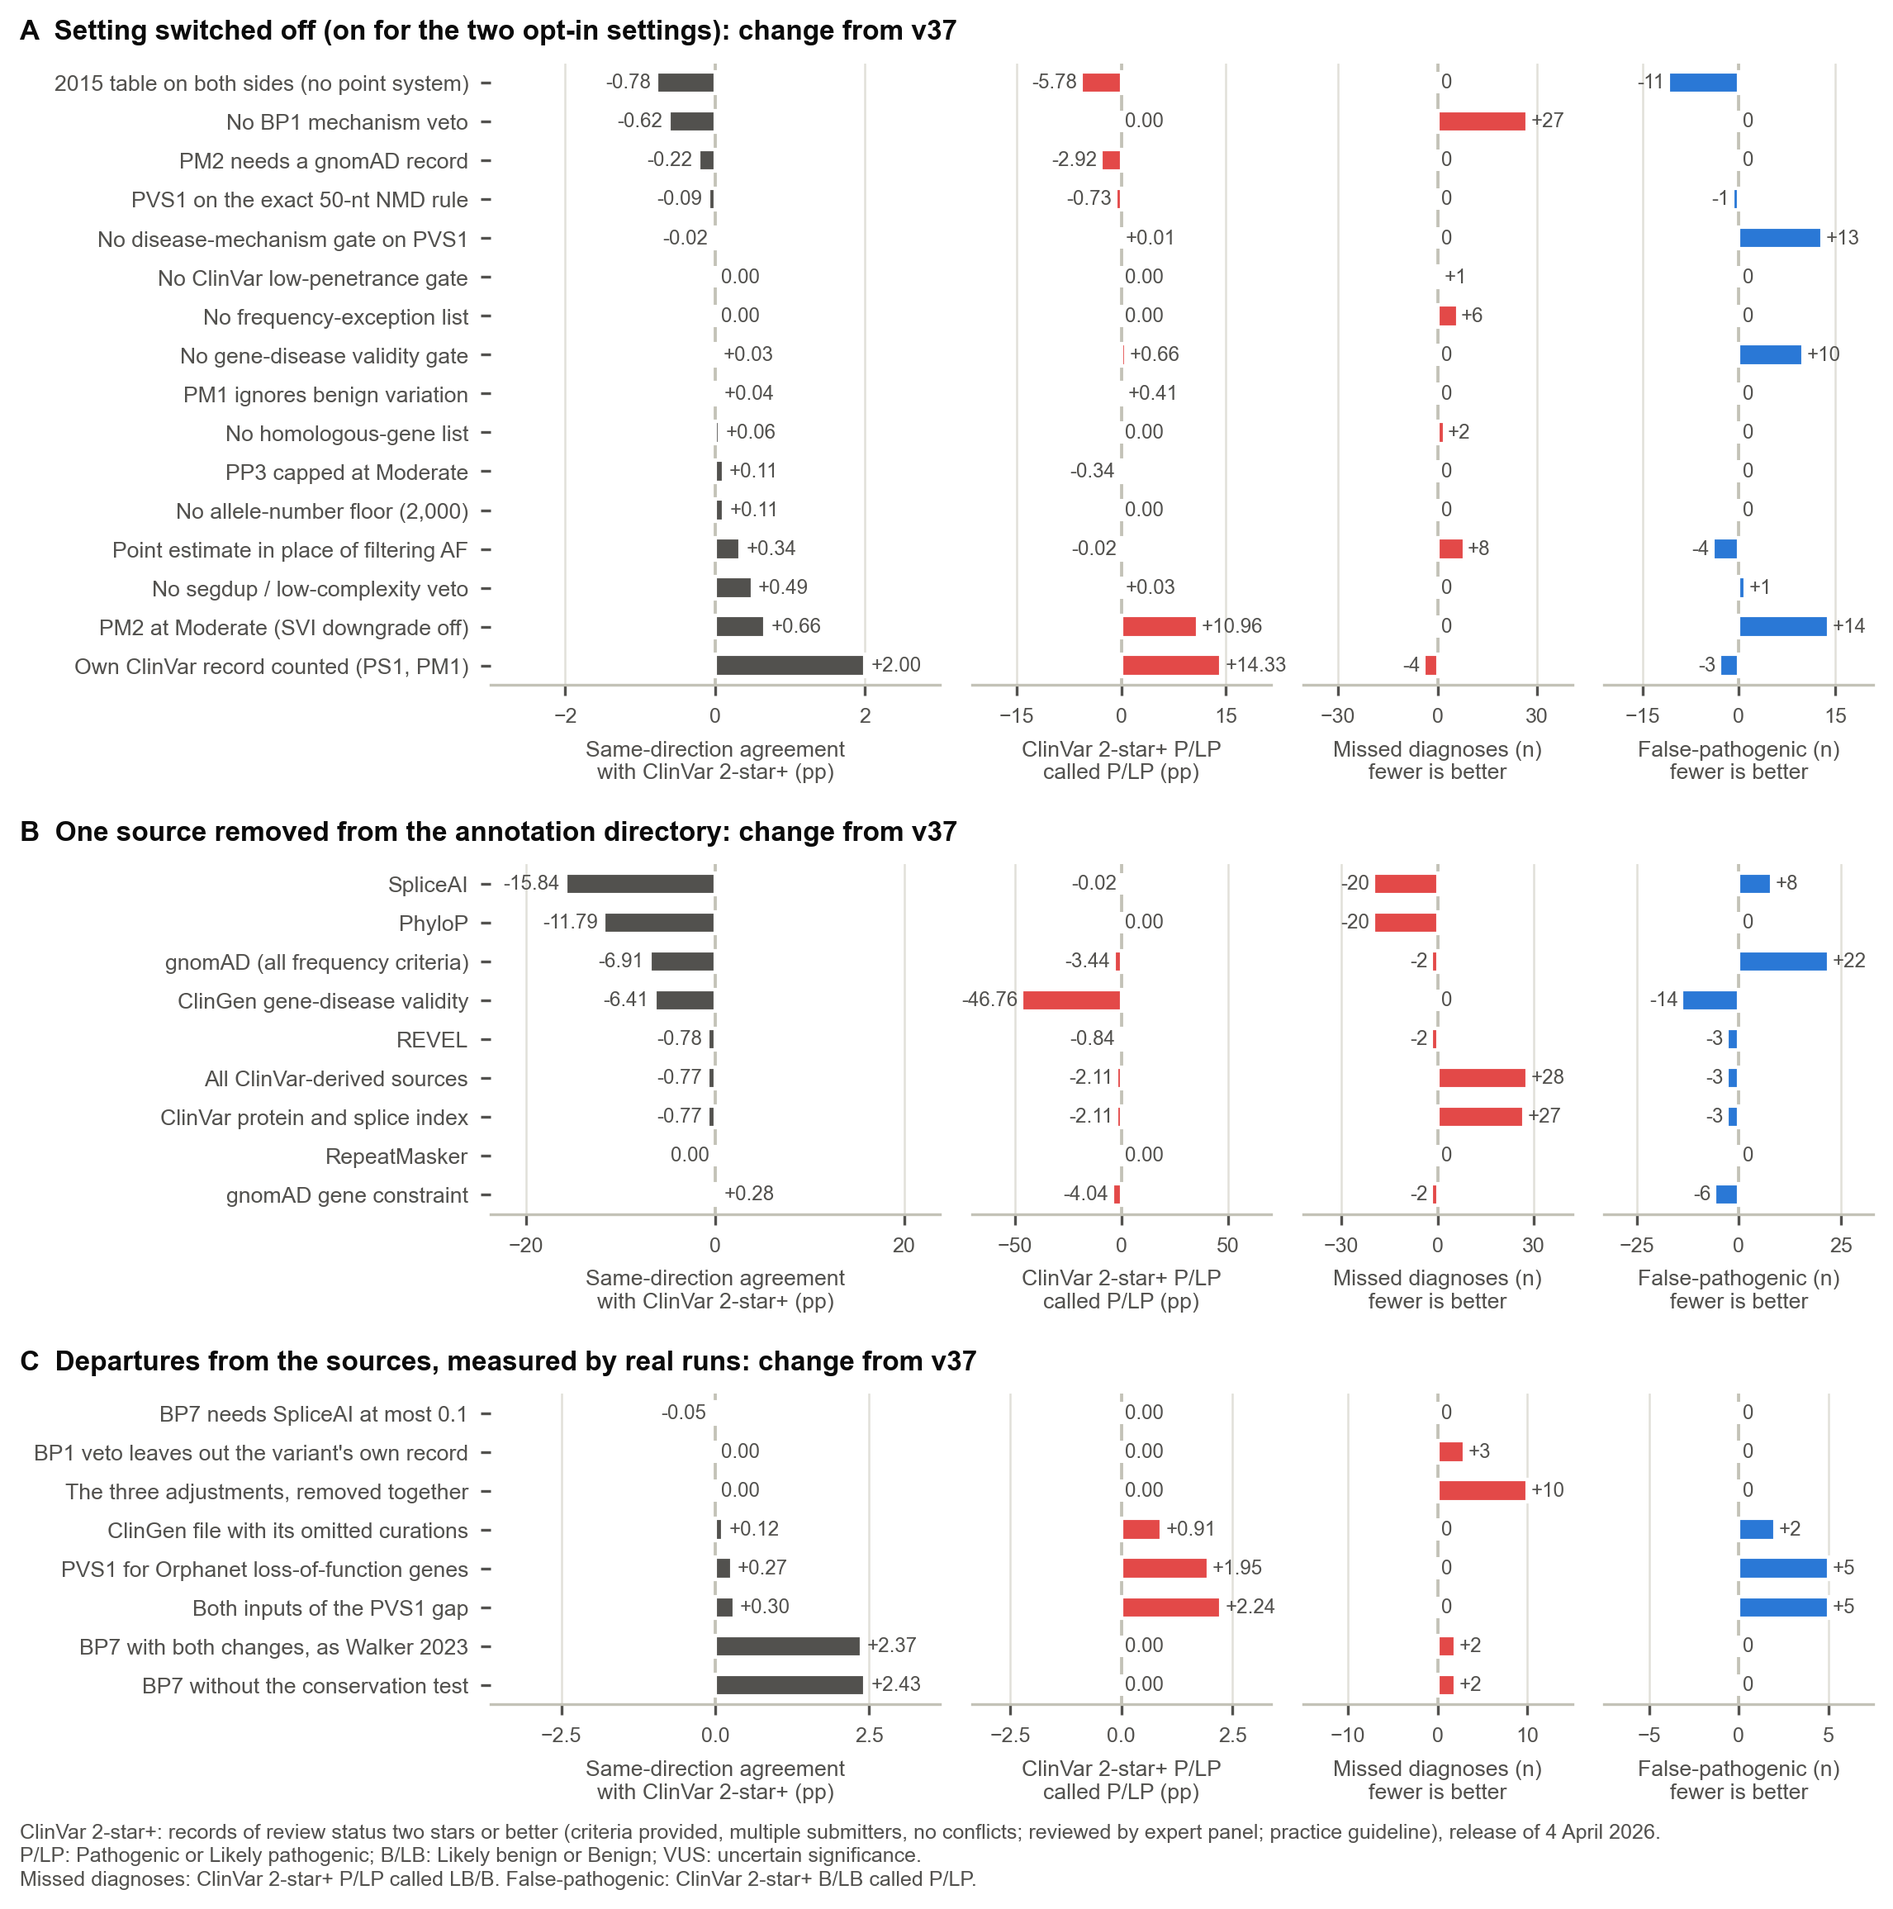
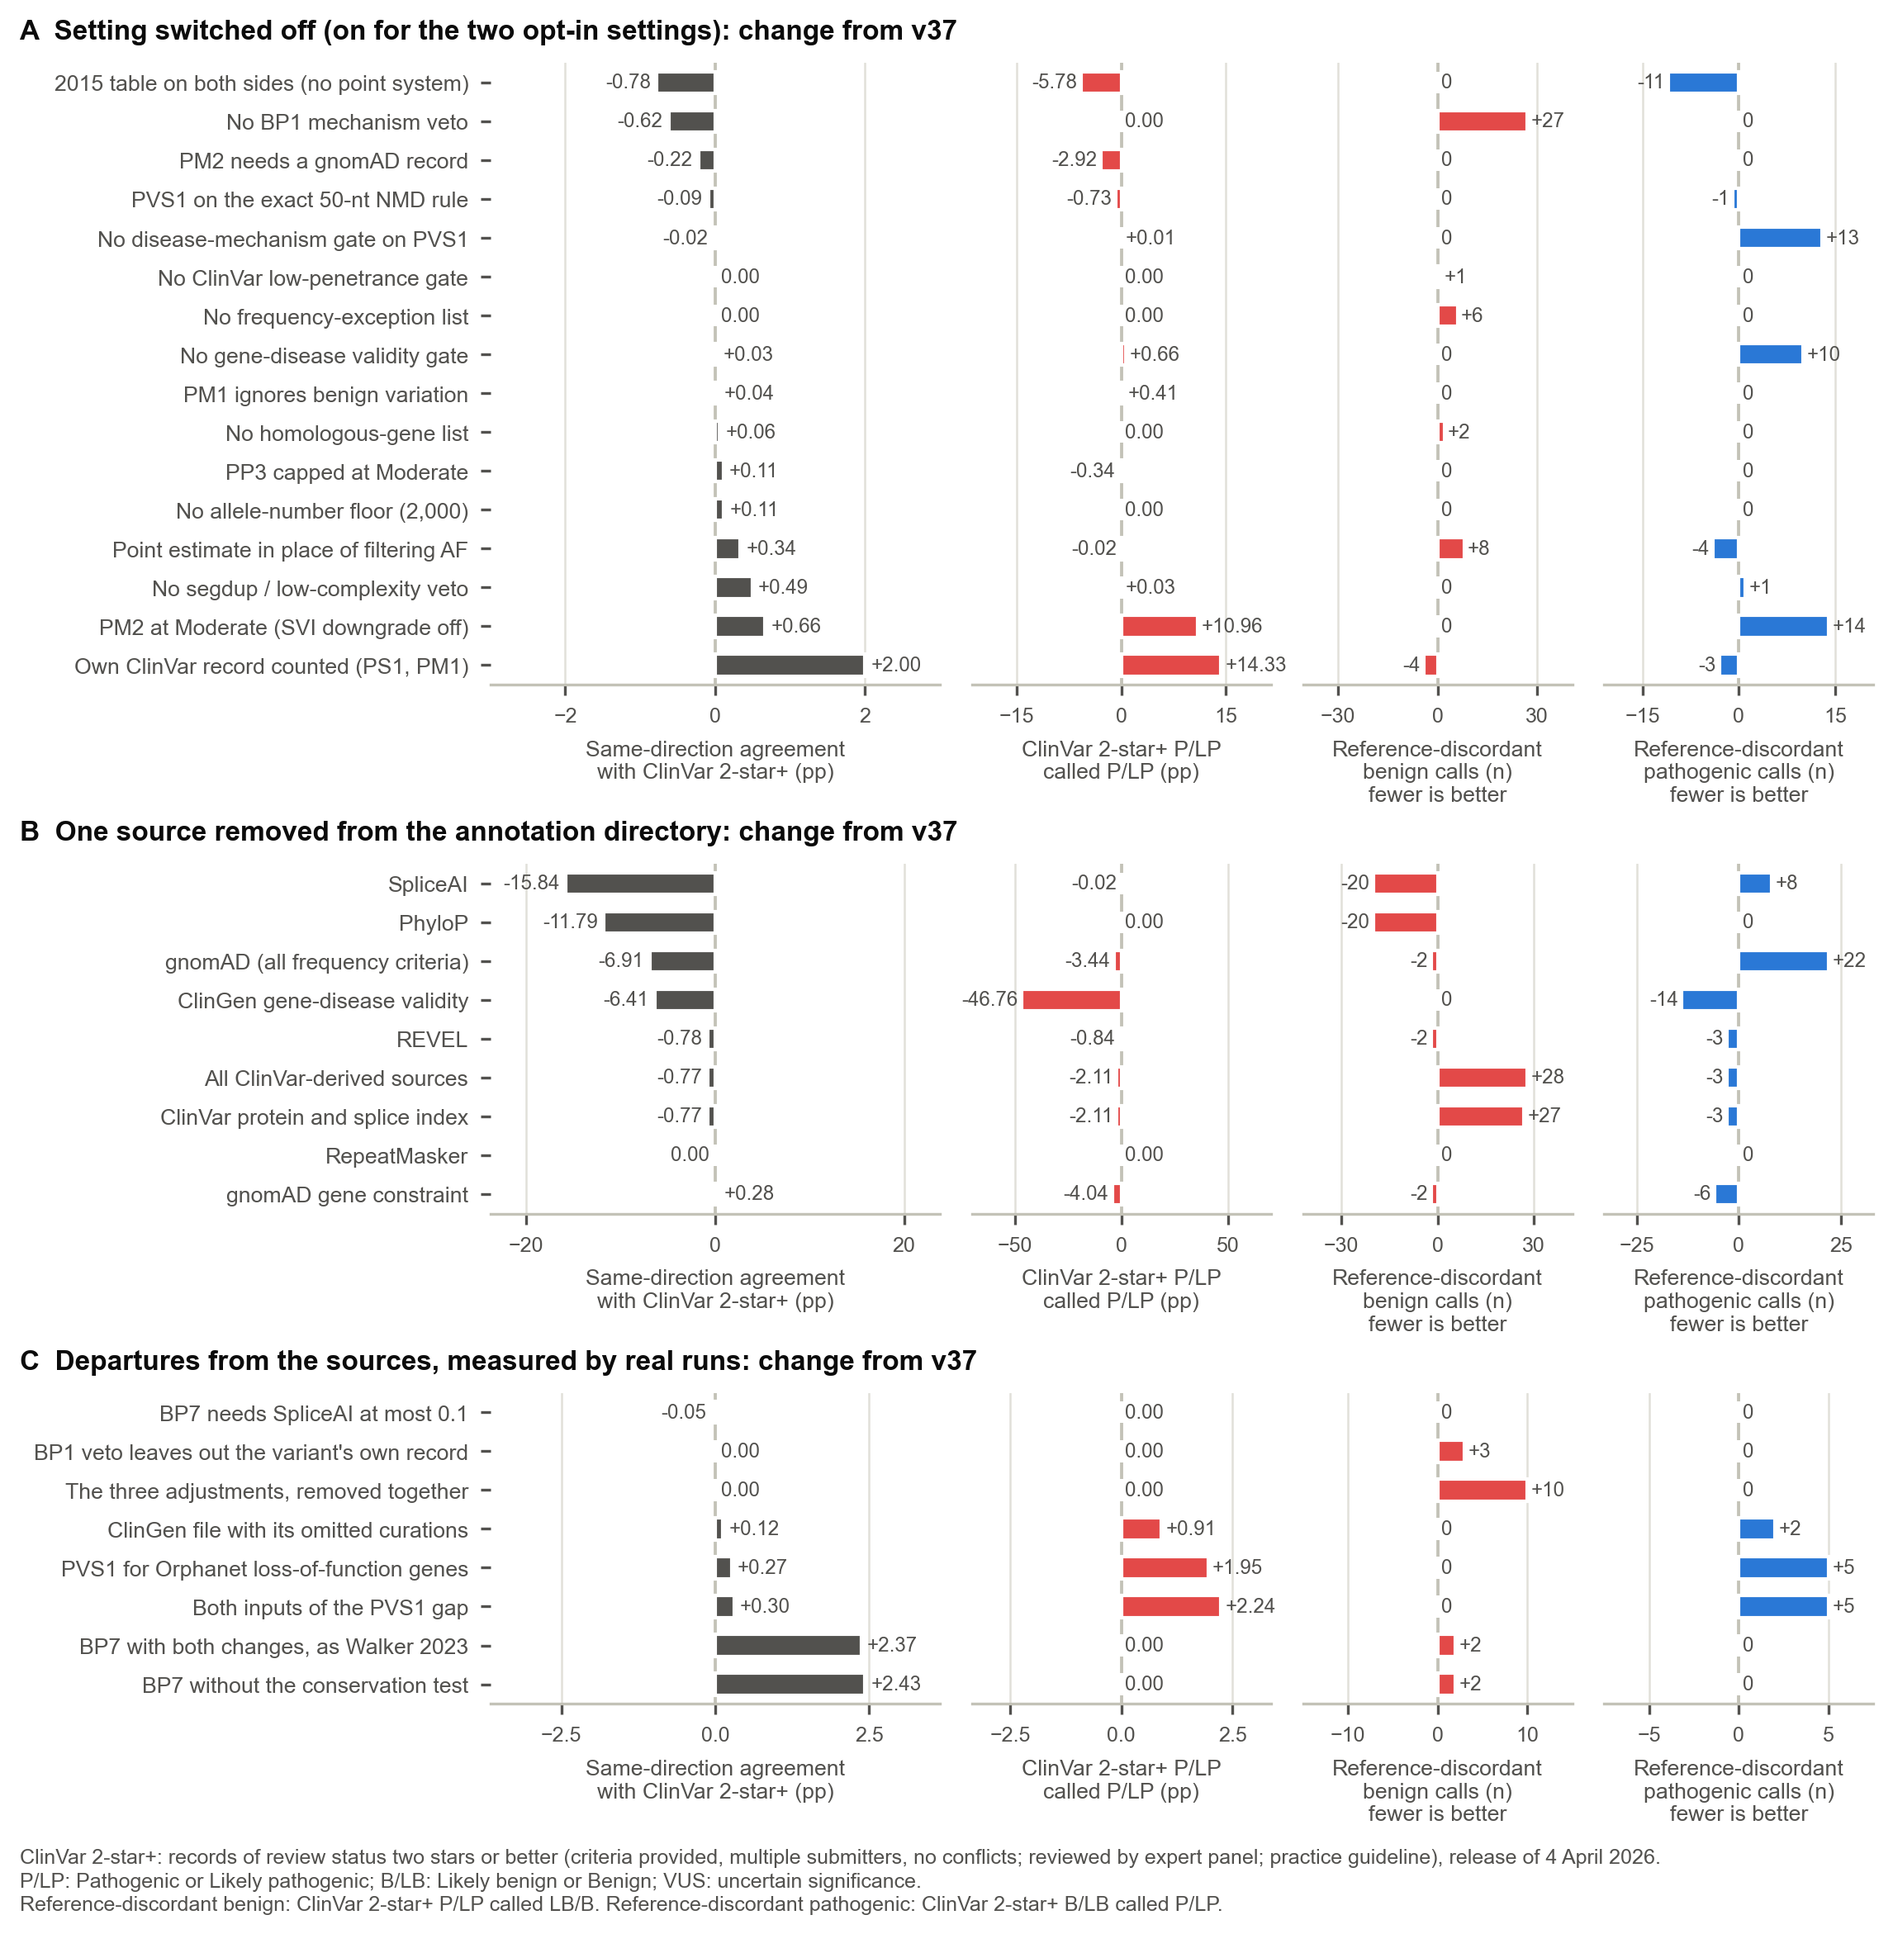
docs(acmg): label the figures as the draft does: default, threshold, reference-discordant benign
The labels of Figures 1 to 3 and S1 said "shipped", "bar" and "missed diagnoses";
the language-edited draft says "default", "threshold" and "reference-discordant
benign" (ClinVar's classifications are a reference, not the truth). The generator
now uses the draft's words for the same things: "default" for the shipped setting,
"threshold" for a bar, "intronic distance" for BP7's far boundary, and
"reference-discordant benign" and "reference-discordant pathogenic" for the two
kinds of opposite-direction call. Only the labels change; the data and the
column names do not.

Regenerated with the generator on this machine: the four figures that carry the
words change, and Figures 4, 5, S2, S3 and S4 do not. The captions and the text
of manuscript.md still use the old words.

diff --git a/manuscript/acmg/generate_figures.py b/manuscript/acmg/generate_figures.py
@@ -164,15 +164,15 @@ EVENTS = [
     (6, "v6: PM2 reads absence as rarity"),
     (8, "v8: review 1 (PVS1 graded; BP4 and PM2 fixes)"),
     (9, "v9: review 2 (PS1 and PM1 stop self-matching)"),
-    (10, "v10: gnomAD QC gates; PM2 and BS2 bars measured"),
+    (10, "v10: gnomAD QC gates; PM2 and BS2 thresholds measured"),
     (11, "v11: SVI point system, pathogenic side"),
-    (12, "v12: BS1 bar moved from 1% to 0.5%"),
+    (12, "v12: BS1 threshold moved from 1% to 0.5%"),
     (13, "v13: --acmg implies --hgvs; BP7 intronic extension live"),
-    (14, "v14: BP7 far boundary; PM1 tests benign variation"),
+    (14, "v14: BP7 intronic distance; PM1 tests benign variation"),
     (16, "v16: PS1 splice path live"),
     (20, "v19 and v20: frequency veto; hypomorph exceptions"),
     (27, "v23 to v27: Ensembl-parity annotation"),
-    (37, "v37: review 6 (HGVS placement, BP7 exon edge, BS2 bar)"),
+    (37, "v37: review 6 (HGVS placement, BP7 exon edge, BS2 threshold)"),
 ]
 
 
@@ -252,7 +252,7 @@ def figS1_trajectory() -> None:
         Line2D([0], [0], color=CAT[1], lw=LW, marker="o", ms=MS - 1.5, mec=SURFACE, label="Exact (five-tier)"),
         Line2D([0], [0], color=INK2, lw=0, marker="o", ms=MS - 1.5, mfc=SURFACE, mec=INK2, mew=1.2,
                label="v1 (reconstructed) and v2 to v6 (recorded at the time)"),
-        Line2D([0], [0], color=INK2, lw=0, marker="x", ms=4.6, mew=1.3, label="v17: opt-in run with the VCEP bars, not a step"),
+        Line2D([0], [0], color=INK2, lw=0, marker="x", ms=4.6, mew=1.3, label="v17: opt-in run with the VCEP thresholds, not a step"),
     ], loc="lower right", bbox_to_anchor=(1.0, 0.0), fontsize=6.4)
     panel_letter(axA, "A")
 
@@ -261,7 +261,7 @@ def figS1_trajectory() -> None:
     axB.set_yscale("log")
     opp = main.dropna(subset=["false_benign"])
     axB.plot(opp["order"], opp.false_benign, color=TIER3["P/LP"], lw=LW, marker="o", ms=MS - 1.5, mec=SURFACE, mew=1, zorder=3,
-             label=f"{CV} P/LP called LB or B (missed diagnosis)")
+             label=f"{CV} P/LP called LB or B (reference-discordant benign)")
     axB.plot(opp["order"], opp.false_pathogenic, color=TIER3["B/LB"], lw=LW, marker="o", ms=MS - 1.5, mec=SURFACE, mew=1, zorder=3,
              label=f"{CV} LB or B called P or LP")
     axB.plot(main["order"], main.opposite, color=INK2, lw=1.0, marker="o", ms=MS - 2.5, mec=SURFACE, mew=0.8, zorder=2, label="Total")
@@ -321,7 +321,7 @@ def figS1_trajectory() -> None:
         axk.text(x + 0.034, y, label, fontsize=6.6, color=INK2, va="center", ha="left")
     axk.set_xlim(0, 1)
     axk.set_ylim(0, 1)
-    clinvar_note(fig, "Opposite-direction calls: ClinVar 2-star+ P/LP called LB or B (missed diagnoses) or ClinVar 2-star+ B/LB called P or LP.")
+    clinvar_note(fig, "Opposite-direction calls: ClinVar 2-star+ P/LP called LB or B (reference-discordant benign) or ClinVar 2-star+ B/LB called P or LP (reference-discordant pathogenic).")
     save(fig, "figS1_trajectory")
 
 
@@ -558,7 +558,7 @@ def fig2_points() -> None:
         # a filled black marker is the shipped setting, here and in Figures 1 and 2C; open markers are the others
         axB.plot([r.wrong / 1000], [r.plp_recall * 100], marker="o", ms=MS + (2 if shipped else 0), mfc=INK if shipped else SURFACE,
                  mec=SURFACE if shipped else CAT[0], mew=1.5 if shipped else 1.4, zorder=5 if shipped else 3)
-    lab = {4: (0.9, 0, "4"), 5: (-0.9, 2.4, "5"), 6: (0.9, 0.6, "6 (shipped)"), 7: (0.9, -1.6, "7 and 8"), 9: (0.9, 0, "9")}
+    lab = {4: (0.9, 0, "4"), 5: (-0.9, 2.4, "5"), 6: (0.9, 0.6, "6 (default)"), 7: (0.9, -1.6, "7 and 8"), 9: (0.9, 0, "9")}
     for r in cut.itertuples():
         if r.lp in lab:
             dx, dy, t = lab[r.lp]
@@ -573,7 +573,7 @@ def fig2_points() -> None:
 
     # C: benign-side scheme trade-off
     sch = {
-        "shipped (v37)": "Table (shipped)",
+        "shipped (v37)": "Table (default)",
         "SVI points, both sides, Likely Benign from -1 (Tavtigian)": "Points, from -1",
         "SVI points, both sides, Likely Benign from -2": "Points, from -2",
         "SVI points, both sides, Likely Benign from -3": "Points, from -3",
@@ -589,7 +589,7 @@ def fig2_points() -> None:
                  mec=SURFACE if shipped else CAT[1], mew=1.5 if shipped else 1.4, zorder=5 if shipped else 3)
         dx, dy, ha = place[r.scheme]
         axC.text(r.false_benign + dx, r.blb_recall * 100 + dy, sch[r.scheme], fontsize=6.4, color=INK2, va="center", ha=ha)
-    axC.set_xlabel(f"{CV} P/LP called LB/B\n(missed diagnoses, n)")
+    axC.set_xlabel(f"{CV} P/LP called LB/B\n(reference-discordant benign, n)")
     axC.set_ylabel(f"{CV} B/LB\ncalled LB/B (%)")
     axC.set_xlim(-30, 480)
     axC.set_ylim(30, 80)
@@ -807,10 +807,10 @@ def fig1_thresholds() -> None:
     # A: the benign-side trade space. Every knob passes through the shipped point.
     # (dx, dy, alignment) of each labelled point, in data units, chosen so no label sits on a line.
     knobs = [
-        ("bs1_af_threshold", "BS1 bar", CAT[0], "0.005", {"0.0002": (0.3, 0, "left"), "0.001": (0.3, -4, "left"), "0.02": (0, 6, "center"), "0.01": (0, 6, "center")}),
-        ("bs2_hom_prevalence_threshold", "BS2 homozygote bar", CAT[1], "0.001", {"1e-06": (0.3, 0, "left"), "1e-05": (-0.3, 3.5, "right")}),
-        ("bp7_max_intron_offset", "BP7 far boundary", CAT[2], "300", {"0": (0, 6, "center"), "50": (0.3, -4, "left"), "1000000": (-0.3, 0, "right")}),
-        ("phylop_conserved", "BP7 PhyloP bar", CAT[3], "2.0", {"1": (0, -4.5, "center"), "1000": (0.3, 0, "left")}),
+        ("bs1_af_threshold", "BS1 threshold", CAT[0], "0.005", {"0.0002": (0.3, 0, "left"), "0.001": (0.3, -4, "left"), "0.02": (0, 6, "center"), "0.01": (0, 6, "center")}),
+        ("bs2_hom_prevalence_threshold", "BS2 homozygote threshold", CAT[1], "0.001", {"1e-06": (0.3, 0, "left"), "1e-05": (-0.3, 3.5, "right")}),
+        ("bp7_max_intron_offset", "BP7 intronic distance", CAT[2], "300", {"0": (0, 6, "center"), "50": (0.3, -4, "left"), "1000000": (-0.3, 0, "right")}),
+        ("phylop_conserved", "BP7 PhyloP threshold", CAT[3], "2.0", {"1": (0, -4.5, "center"), "1000": (0.3, 0, "left")}),
         ("bp1_max_pathogenic_missense", "BP1 veto count", CAT[4], "3", {"1": (0.3, -3.5, "left"), "25": (0.3, 0, "left")}),
     ]
     show = {"bs1_af_threshold": {"0.0002", "0.001", "0.01", "0.02"}, "bs2_hom_prevalence_threshold": {"1e-06", "1e-05"},
@@ -833,14 +833,14 @@ def fig1_thresholds() -> None:
                 dx, dy, ha = offs[v]
                 axA.text(x + dx, y + dy, fmt, fontsize=5.9, color=INK2, ha=ha, va="center")
     axA.plot([float(base.blb_recall) * 100], [int(base.false_benign)], marker="o", ms=MS + 2, mfc=INK, mec=SURFACE, mew=1.5, zorder=5)
-    axA.text(float(base.blb_recall) * 100 - 0.35, int(base.false_benign) + 9, "shipped", fontsize=6.4, color=INK, ha="right", va="center")
+    axA.text(float(base.blb_recall) * 100 - 0.35, int(base.false_benign) + 9, "default", fontsize=6.4, color=INK, ha="right", va="center")
     axA.set_xlim(57, 69.4)
     axA.set_ylim(-3, 112)
     axA.set_xlabel(f"{CV} B/LB called LB/B (%)")
-    axA.set_ylabel(f"{CV} P/LP called LB/B\n(missed diagnoses, n)")
+    axA.set_ylabel(f"{CV} P/LP called LB/B\n(reference-discordant benign, n)")
     hgrid(axA)
     axA.legend(handles=[Line2D([0], [0], color=c, lw=LW, label=l) for _, l, c, _, _ in knobs], loc="upper left", fontsize=6.6)
-    axA.set_title("Bars on the benign side", loc="left", fontsize=8, pad=6)
+    axA.set_title("Thresholds on the benign side", loc="left", fontsize=8, pad=6)
     panel_letter(axA, "A", x=-0.17, y=1.10)
 
     # B: the PM2 bar for dominant genes, under the point system and under the 2015 table
@@ -865,18 +865,18 @@ def fig1_thresholds() -> None:
         ptsT.sort()
         axB.plot([p_[0] for p_ in ptsT], [p_[1] for p_ in ptsT], color=CAT[1], lw=LW, marker="o", ms=MS - 1, mec=SURFACE, mew=1, zorder=3, label="2015 table")
     axB.axvline(4e-5, color=AXIS, lw=0.9, zorder=1)
-    axB.text(4e-5 * 1.2, 65.6, "shipped 4e-5 (7e-5\nfor recessive-only)", fontsize=5.8, color=INK2, va="top", ha="left")
+    axB.text(4e-5 * 1.2, 65.6, "default 4e-5 (7e-5\nfor recessive-only)", fontsize=5.8, color=INK2, va="top", ha="left")
     axB.set_xscale("log")
     axB.set_xlim(1.5e-7, 1e-3)
     axB.set_ylim(36, 68)
     axB.set_xticks([2.5e-7, 1e-6, 1e-5, 1e-4])
     axB.set_xticklabels(["0", "1e-6", "1e-5", "1e-4"])
     axB.xaxis.set_minor_locator(matplotlib.ticker.NullLocator())
-    axB.set_xlabel("PM2 bar")
+    axB.set_xlabel("PM2 threshold")
     axB.set_ylabel(f"{CV} P/LP\ncalled P/LP (%)")
     hgrid(axB)
     axB.legend(loc="lower right", bbox_to_anchor=(1.0, 0.0), fontsize=6.0, handlelength=1.8)
-    axB.set_title("PM2 bars, by combining rule", loc="left", fontsize=8, pad=6)
+    axB.set_title("PM2 threshold, by combining rule", loc="left", fontsize=8, pad=6)
     panel_letter(axB, "B", x=-0.27, y=1.10)
 
     # C: the dominant-gene BS2 carrier bar, change in recall against the shipped 3e-4
@@ -899,13 +899,13 @@ def fig1_thresholds() -> None:
     axC.set_xticks([2.0e-5, 1e-4, 1e-3])
     axC.set_xticklabels(["off", "1e-4", "1e-3"])
     axC.xaxis.set_minor_locator(matplotlib.ticker.NullLocator())
-    axC.set_xlabel("BS2 carrier bar")
+    axC.set_xlabel("BS2 carrier threshold")
     axC.set_ylabel(f"Change in recall of the\n{CV} class (pp)")
     hgrid(axC)
-    axC.text(3e-4 * 1.15, axC.get_ylim()[1] * 0.92, "shipped\n3e-4", fontsize=6.2, color=INK2, va="top", ha="left")
+    axC.text(3e-4 * 1.15, axC.get_ylim()[1] * 0.92, "default\n3e-4", fontsize=6.2, color=INK2, va="top", ha="left")
     axC.text(4.6e-3, 0.012, "P/LP", fontsize=6.4, color=INK2, ha="right", va="bottom")
     axC.text(4.6e-3, blb[-1] - 0.012, "B/LB", fontsize=6.4, color=INK2, ha="right", va="top")
-    axC.set_title("BS2 carrier bar", loc="left", fontsize=8, pad=6)
+    axC.set_title("BS2 carrier threshold", loc="left", fontsize=8, pad=6)
     panel_letter(axC, "C", x=-0.30, y=1.10)
     clinvar_note(fig, "Panel C: P/LP is the recall of ClinVar 2-star+ P/LP variants and B/LB that of ClinVar 2-star+ B/LB variants.")
     save(fig, "fig1_thresholds")
@@ -985,8 +985,8 @@ def fig3_ablations() -> None:
         y = np.arange(len(b))
         specs = [("d_same_pp", f"Same-direction agreement\nwith {CV} (pp)", INK2, True),
                  ("d_plp_pp", f"{CV} P/LP\ncalled P/LP (pp)", TIER3["P/LP"], True),
-                 ("d_missed", "Missed diagnoses (n)\nfewer is better", TIER3["P/LP"], False),
-                 ("d_fp", "False-pathogenic (n)\nfewer is better", TIER3["B/LB"], False)]
+                 ("d_missed", "Reference-discordant\nbenign calls (n)\nfewer is better", TIER3["P/LP"], False),
+                 ("d_fp", "Reference-discordant\npathogenic calls (n)\nfewer is better", TIER3["B/LB"], False)]
         for k, (col, xl, color, is_pp) in enumerate(specs):
             ax = axs[k]
             vals = b[col].to_numpy()
@@ -1008,7 +1008,7 @@ def fig3_ablations() -> None:
             for sp in ("left",):
                 ax.spines[sp].set_visible(False)
         axs[0].set_title(f"{letter}  {title}", loc="left", fontsize=8, x=-1.05, pad=7, fontweight="bold")
-    clinvar_note(fig, "Missed diagnoses: ClinVar 2-star+ P/LP called LB/B. False-pathogenic: ClinVar 2-star+ B/LB called P/LP.")
+    clinvar_note(fig, "Reference-discordant benign: ClinVar 2-star+ P/LP called LB/B. Reference-discordant pathogenic: ClinVar 2-star+ B/LB called P/LP.")
     save(fig, "fig3_ablations")
 
 
